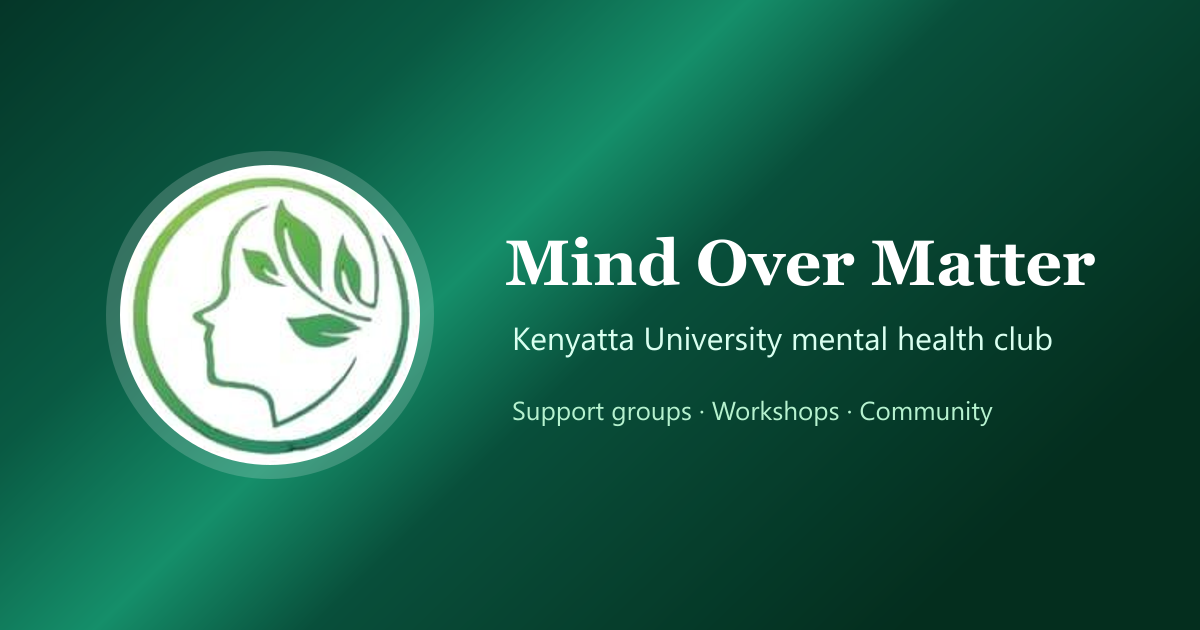
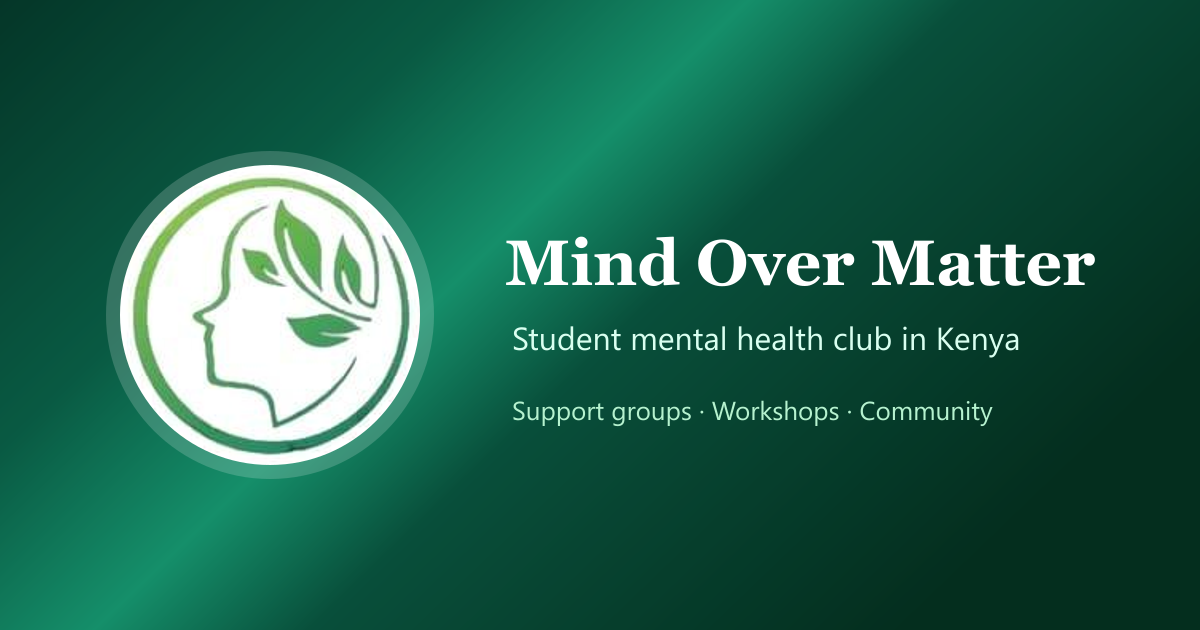
Address students across Kenya instead of Kenyatta University only
- Reword the hero, footer, About preamble, blog intro, privacy policy and page titles
- Contact location reads Based in Nairobi, Kenya, open to students across the country
- Update page descriptions and the link-preview image

Changed region(s): [[0.4317, 0.5127, 0.8942, 0.573]]

diff --git a/pages/main.jsx b/pages/main.jsx
@@ -417,7 +417,7 @@ function Footer() {
             <span className="brand-mark"><img src={logoEmblem} alt="" width="40" height="40" loading="lazy" /></span>
             <span>Mind Over Matter</span>
           </a>
-          <p>A student-led mental health club at Kenyatta University, building a community where mental health is openly discussed, actively nurtured, and never faced alone.</p>
+          <p>A student-led mental health club for students across Kenya, building a community where mental health is openly discussed, actively nurtured, and never faced alone.</p>
           {socials.length > 0 && (
             <ul className="footer-social" aria-label="Mind Over Matter on social media">
               {socials.map((social) => (
@@ -481,7 +481,7 @@ function Footer() {
       </div>
 
       <div className="container footer-bottom">
-        <p>© {new Date().getFullYear()} Mind Over Matter, Kenyatta University. All rights reserved.</p>
+        <p>© {new Date().getFullYear()} Mind Over Matter, Kenya. All rights reserved.</p>
         <p className="footer-credit">
           Designed by {siteCredit.name}
           {siteCredit.linkedin ? (
@@ -705,7 +705,7 @@ function HomePage() {
         />
         <div className="container hero-grid">
           <motion.div className="hero-copy" initial="hidden" animate="shown" variants={introVariants}>
-            <motion.p className="eyebrow" variants={introItemVariants}>Kenyatta University · Student mental health</motion.p>
+            <motion.p className="eyebrow" variants={introItemVariants}>Students across Kenya · Mental health</motion.p>
             <motion.h1 variants={introItemVariants}>A community where mental health matters.</motion.h1>
             <motion.p className="lede hero-lede" variants={introItemVariants}>Mind Over Matter is a student-led club building a compassionate, supportive community where mental health is openly discussed, actively nurtured, and never faced alone.</motion.p>
             <motion.div className="hero-actions" variants={introItemVariants}>
@@ -886,7 +886,7 @@ function ArchivePage() {
 
   return (
     <PageLayout pageClass="page-main">
-      <PageHero eyebrow="Blog" title="Stories, skills, and support for student life." lede="Articles from the Mind Over Matter community on coping, wellbeing, and life at Kenyatta University." />
+      <PageHero eyebrow="Blog" title="Stories, skills, and support for student life." lede="Articles from the Mind Over Matter community on coping, wellbeing, and student life in Kenya." />
       <section className="section"><div className="container">
         <div className="archive-toolbar">
           <label className="sr-only" htmlFor="archive-search">Search articles</label>
@@ -1267,7 +1267,7 @@ function ContactPage() {
         <article className="contact-card"><span className="journal-tag">Get in touch</span><h3>Talk to us.</h3><p>Students can reach out about support groups, events, or membership. Partners, NGOs, and mental health professionals: we would love to work with you.</p><ul className="contact-list">
           <li><EnvelopeSimple className="contact-list-icon" size={17} aria-hidden="true" /><a href={`mailto:${contact.email}`}>{contact.email}</a></li>
           {contact.phone && <li><Phone className="contact-list-icon" size={17} aria-hidden="true" /><a href={`tel:${contact.phone.replace(/[^\d+]/g, '')}`}>{contact.phone}</a></li>}
-          <li><MapPin className="contact-list-icon" size={17} aria-hidden="true" /><span>{contact.location.name}, {contact.location.detail}, {contact.location.city}</span></li>
+          <li><MapPin className="contact-list-icon" size={17} aria-hidden="true" /><span>Based in {contact.location.city}, open to students across the country</span></li>
         </ul></article>
         <div className="contact-form-card"><h3>Send a message</h3><form className="contact-form" onSubmit={handleSubmit}>
           <label>Name<input name="name" type="text" placeholder="Your name" maxLength={100} autoComplete="name" required /></label>
@@ -3153,7 +3153,7 @@ function PrivacyPage() {
       <section className="section">
         <div className="container narrow-container privacy-content">
           <h2>Who we are</h2>
-          <p>Mind Over Matter is a student-led mental health club at Kenyatta University, Nairobi, Kenya. In this policy, “we” means the club and its Executive Committee.</p>
+          <p>Mind Over Matter is a student-led mental health club for students across Kenya, based in Nairobi. In this policy, “we” means the club and its Executive Committee.</p>
 
           <h2>What we collect</h2>
           <p>We only collect information you choose to give us:</p>
@@ -3197,7 +3197,7 @@ function PrivacyPage() {
 }
 
 const pageTitles = {
-  'index': 'Mind Over Matter | Kenyatta University Mental Health Club',
+  'index': 'Mind Over Matter | Student Mental Health Club in Kenya',
   'event': 'Events & Programs | Mind Over Matter',
   'blog': 'Blog | Mind Over Matter',
   'article': 'Mind Over Matter | Article',

diff --git a/data/club.js b/data/club.js
@@ -4,11 +4,10 @@
 export const contact = {
   email: 'mentalwellnessclubmom@gmail.com',
   phone: '+254 704 580 422', // Optional. Hidden while empty.
+  // Where the club is based. Members can be students anywhere in Kenya.
   location: {
-    name: 'Kenyatta University',
-    detail: 'Main Campus, Thika Road',
     city: 'Nairobi, Kenya',
-    mapUrl: 'https://www.google.com/maps/search/?api=1&query=Kenyatta+University+Main+Campus+Nairobi',
+    mapUrl: 'https://www.google.com/maps/search/?api=1&query=Nairobi+Kenya',
   },
 };
 
@@ -30,7 +29,7 @@ export const siteCredit = {
 };
 
 export const preamble =
-  'We, the students of Kenyatta University, recognizing the unique pressures and challenges of our academic and personal lives, and believing in the fundamental importance of mental well-being, do hereby establish "Mind Over Matter." Our purpose is to build a compassionate and supportive community where mental health matters, is openly discussed, and actively nurtured.';
+  'We, students across Kenya, recognizing the unique pressures and challenges of our academic and personal lives, and believing in the fundamental importance of mental well-being, do hereby establish "Mind Over Matter." Our purpose is to build a compassionate and supportive community where mental health matters, is openly discussed, and actively nurtured.';
 
 export const purpose =
   'To build a sustainable community where the mental health of all members is valued, protected, and prioritized.';
@@ -77,14 +76,14 @@ export const problems = [
 export const approach = [
   { title: 'Advocacy for mental health', icon: 'megaphone', text: 'Pushing for university policies and practices that promote student mental well-being.' },
   { title: 'Creation of support groups', icon: 'users', text: 'Close-knit groups and regular meet-ups where students connect with peers facing similar challenges.' },
-  { title: 'Community approach', icon: 'handshake', text: 'Social events, awareness campaigns, and open conversations that build a caring campus community, so no student faces mental health challenges alone.' },
+  { title: 'Community approach', icon: 'handshake', text: 'Social events, awareness campaigns, and open conversations that build a caring community, so no student faces mental health challenges alone.' },
   { title: 'Capacity building', icon: 'sprout', text: 'Workshops that build the skills, knowledge, and resources to manage stress, emotions, and mental health challenges constructively.' },
 ];
 
 export const objectives = [
   'Provide a safe and supportive space for students to discuss mental health concerns.',
   'Raise awareness about mental health issues among students.',
-  'Connect students with trained mental health personnel on and off campus.',
+  'Connect students with trained mental health personnel, wherever they study.',
   'Promote healthy coping mechanisms and self-care strategies.',
   'Advocate for policies and practices that support student mental health.',
 ];

diff --git a/pages/index.html b/pages/index.html
@@ -3,11 +3,11 @@
   <head>
     <meta charset="UTF-8" />
     <meta name="viewport" content="width=device-width, initial-scale=1.0" />
-    <meta name="description" content="Mind Over Matter is a student-led mental health club at Kenyatta University offering support groups, workshops, professional care, and community." />
+    <meta name="description" content="Mind Over Matter is a student-led mental health club for students across Kenya, offering support groups, workshops, professional care, and community." />
     <meta name="theme-color" content="#eff5f6" />
     <link rel="icon" type="image/png" href="../assets/images/logo/favicon.png" />
     <link rel="apple-touch-icon" href="../assets/images/logo/apple-touch-icon.png" />
-    <title>Mind Over Matter | Kenyatta University Mental Health Club</title>
+    <title>Mind Over Matter | Student Mental Health Club in Kenya</title>
     <style>
       /* Boot loader: inline so it works before the site's CSS and JavaScript have loaded. */
       .boot-loader {

diff --git a/pages/merch.html b/pages/merch.html
@@ -3,7 +3,7 @@
   <head>
     <meta charset="UTF-8" />
     <meta name="viewport" content="width=device-width, initial-scale=1.0" />
-    <meta name="description" content="Mind Over Matter hoodies and T-shirts. Order club merch online and we'll contact you to confirm payment and pickup. Every purchase supports student mental health at Kenyatta University." />
+    <meta name="description" content="Mind Over Matter hoodies, T-shirts, caps, and bucket hats. Order club merch online and we'll contact you to confirm payment and pickup. Every purchase supports student mental health across Kenya." />
     <meta name="theme-color" content="#eff5f6" />
     <link rel="icon" type="image/png" href="../assets/images/logo/favicon.png" />
     <link rel="apple-touch-icon" href="../assets/images/logo/apple-touch-icon.png" />

diff --git a/pages/event.html b/pages/event.html
@@ -3,7 +3,7 @@
   <head>
     <meta charset="UTF-8" />
     <meta name="viewport" content="width=device-width, initial-scale=1.0" />
-    <meta name="description" content="Upcoming Mind Over Matter events, plus our programs: access to mental health professionals, support groups, workshops, and social events for Kenyatta University students." />
+    <meta name="description" content="Upcoming Mind Over Matter events, plus our programs: access to mental health professionals, support groups, workshops, and social events for students across Kenya." />
     <meta name="theme-color" content="#eff5f6" />
     <link rel="icon" type="image/png" href="../assets/images/logo/favicon.png" />
     <link rel="apple-touch-icon" href="../assets/images/logo/apple-touch-icon.png" />

diff --git a/pages/about-us.html b/pages/about-us.html
@@ -3,7 +3,7 @@
   <head>
     <meta charset="UTF-8" />
     <meta name="viewport" content="width=device-width, initial-scale=1.0" />
-    <meta name="description" content="Learn about Mind Over Matter: our mission, vision, core values, and the Kenyatta University students who founded the club." />
+    <meta name="description" content="Learn about Mind Over Matter: our mission, vision, core values, and the students who founded the club." />
     <meta name="theme-color" content="#eff5f6" />
     <link rel="icon" type="image/png" href="../assets/images/logo/favicon.png" />
     <link rel="apple-touch-icon" href="../assets/images/logo/apple-touch-icon.png" />

diff --git a/pages/blog.html b/pages/blog.html
@@ -3,7 +3,7 @@
   <head>
     <meta charset="UTF-8" />
     <meta name="viewport" content="width=device-width, initial-scale=1.0" />
-    <meta name="description" content="Articles from Mind Over Matter on student life, coping skills, and wellbeing at Kenyatta University." />
+    <meta name="description" content="Articles from Mind Over Matter on student life, coping skills, and wellbeing for students in Kenya." />
     <meta name="theme-color" content="#eff5f6" />
     <link rel="icon" type="image/png" href="../assets/images/logo/favicon.png" />
     <link rel="apple-touch-icon" href="../assets/images/logo/apple-touch-icon.png" />

diff --git a/pages/article.html b/pages/article.html
@@ -3,7 +3,7 @@
   <head>
     <meta charset="UTF-8" />
     <meta name="viewport" content="width=device-width, initial-scale=1.0" />
-    <meta name="description" content="An article from Mind Over Matter, the student mental health club at Kenyatta University." />
+    <meta name="description" content="An article from Mind Over Matter, the student mental health club for students across Kenya." />
     <meta name="theme-color" content="#eff5f6" />
     <link rel="icon" type="image/png" href="../assets/images/logo/favicon.png" />
     <link rel="apple-touch-icon" href="../assets/images/logo/apple-touch-icon.png" />

diff --git a/README.md b/README.md
@@ -1,6 +1,6 @@
 # Mind Over Matter website
 
-The website for **Mind Over Matter**, the student-led mental health club at Kenyatta University: club information, events and programs, a blog, a contact form, and a private admin dashboard for publishing posts and events and reading messages.
+The website for **Mind Over Matter**, the student-led mental health club for students across Kenya: club information, events and programs, a blog, a contact form, and a private admin dashboard for publishing posts and events and reading messages.
 
 Built with React and Vite. Content (blog posts, events, contact messages) and admin sign-in use Firebase.
 
